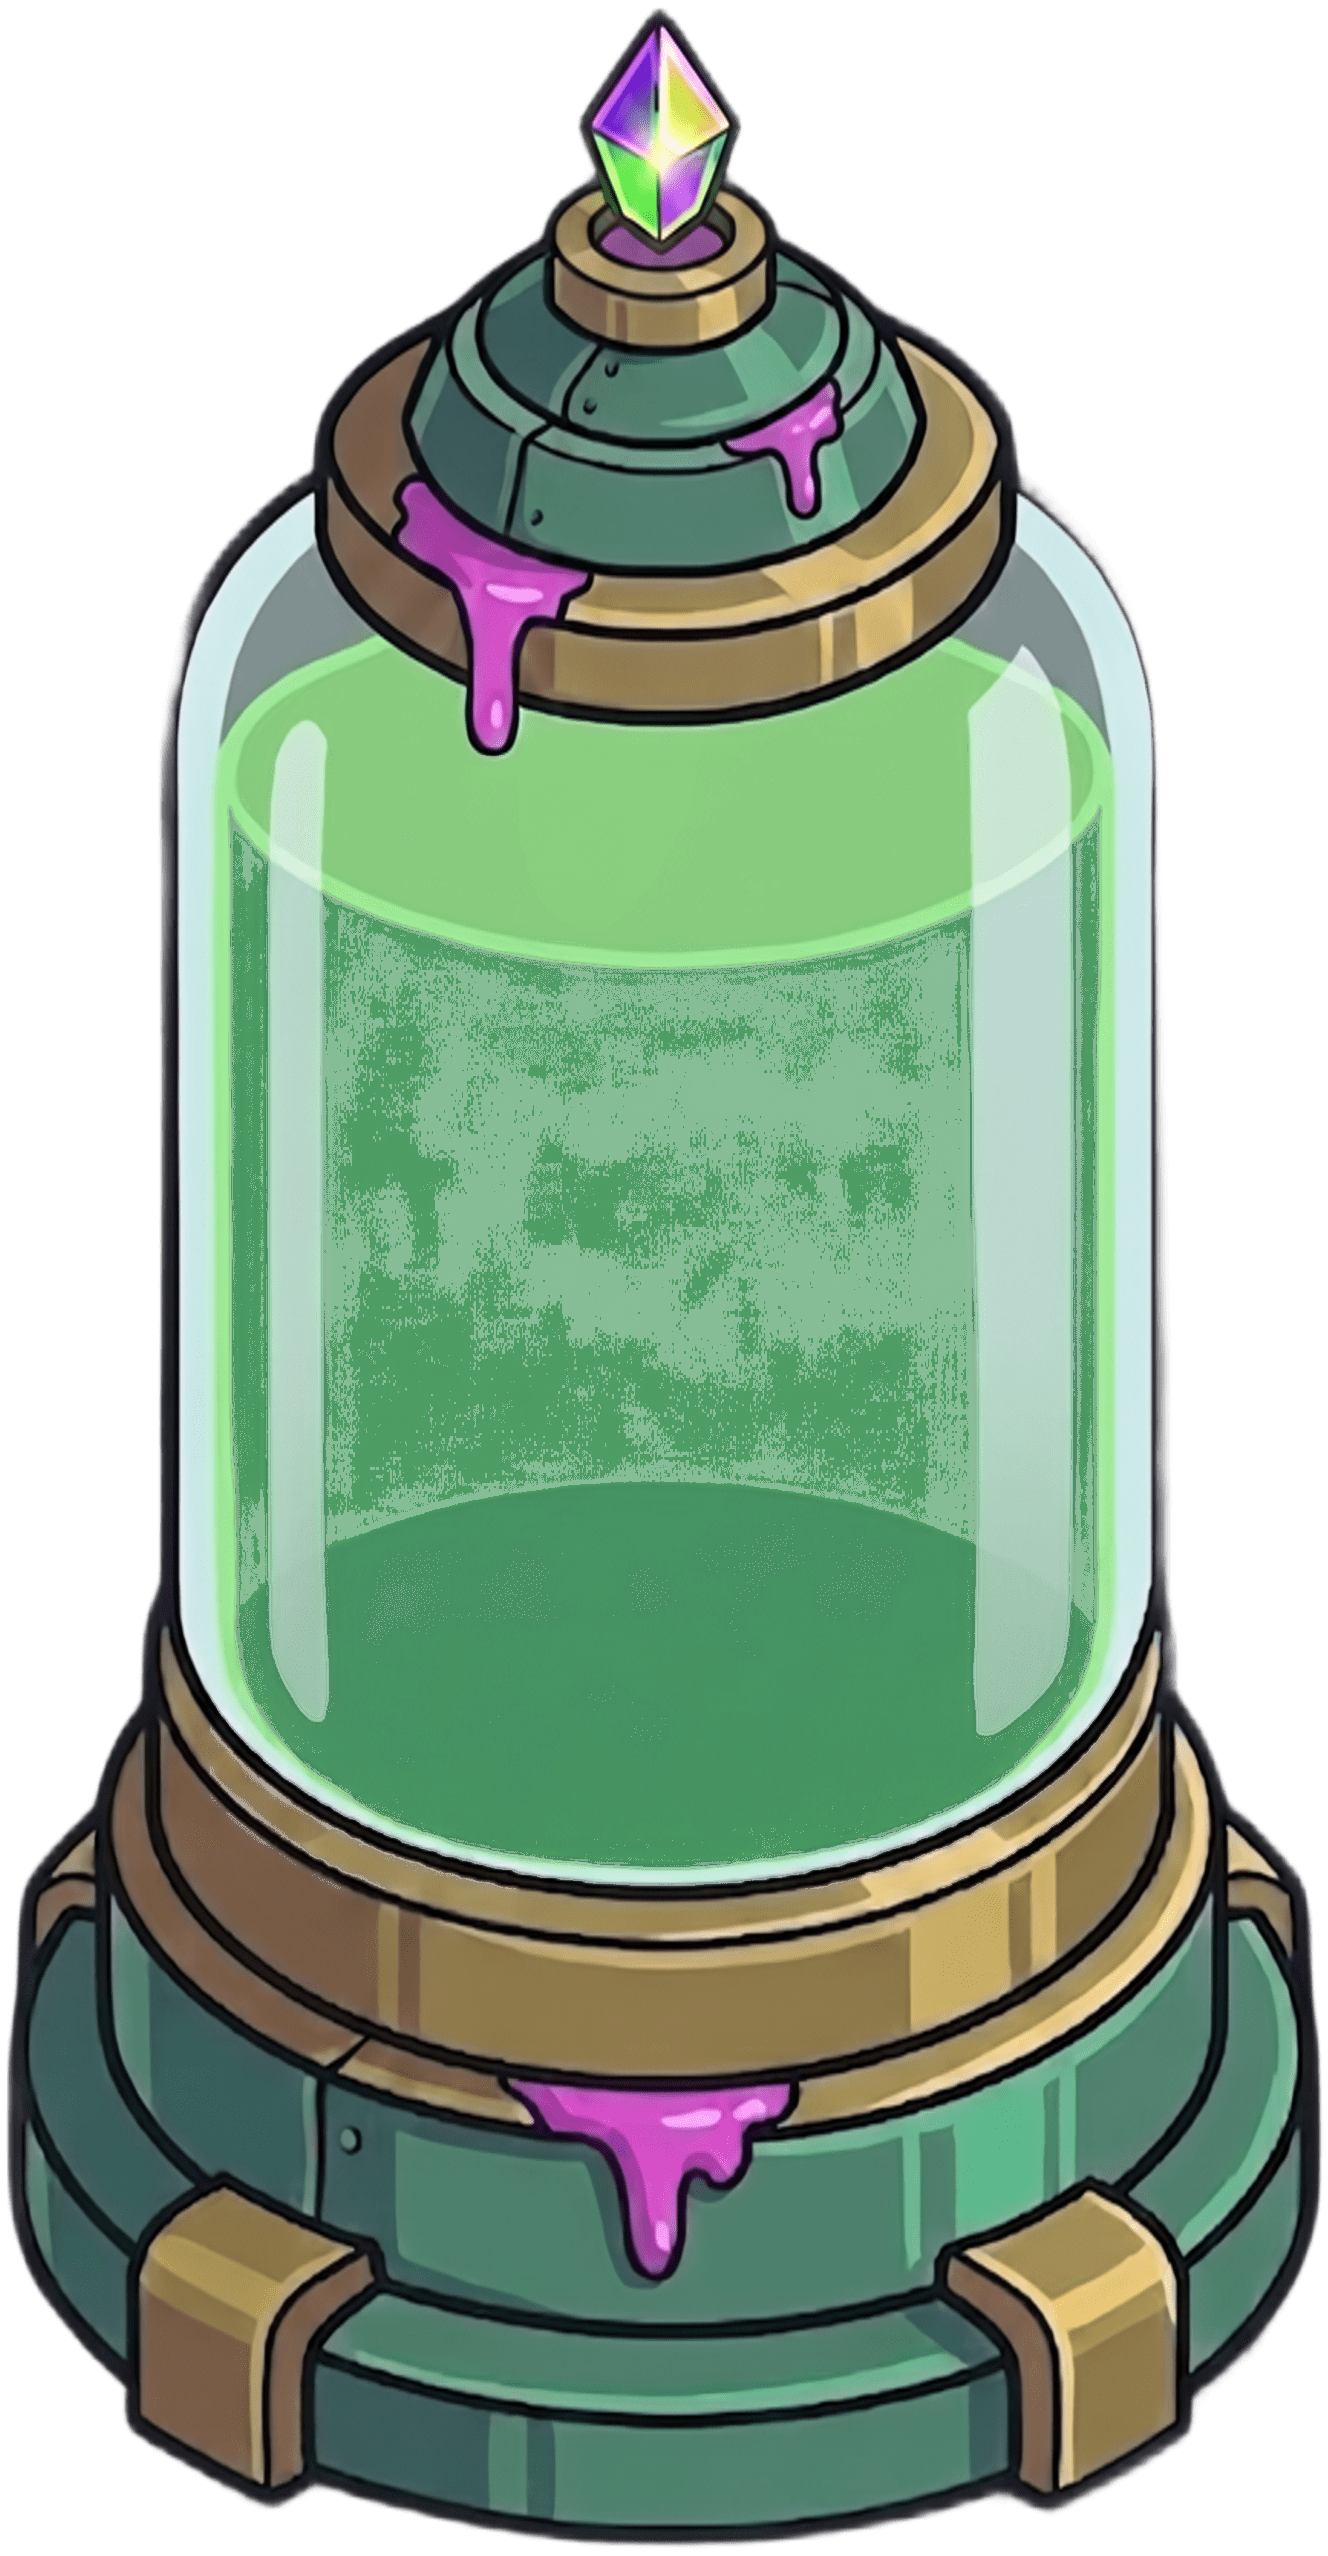
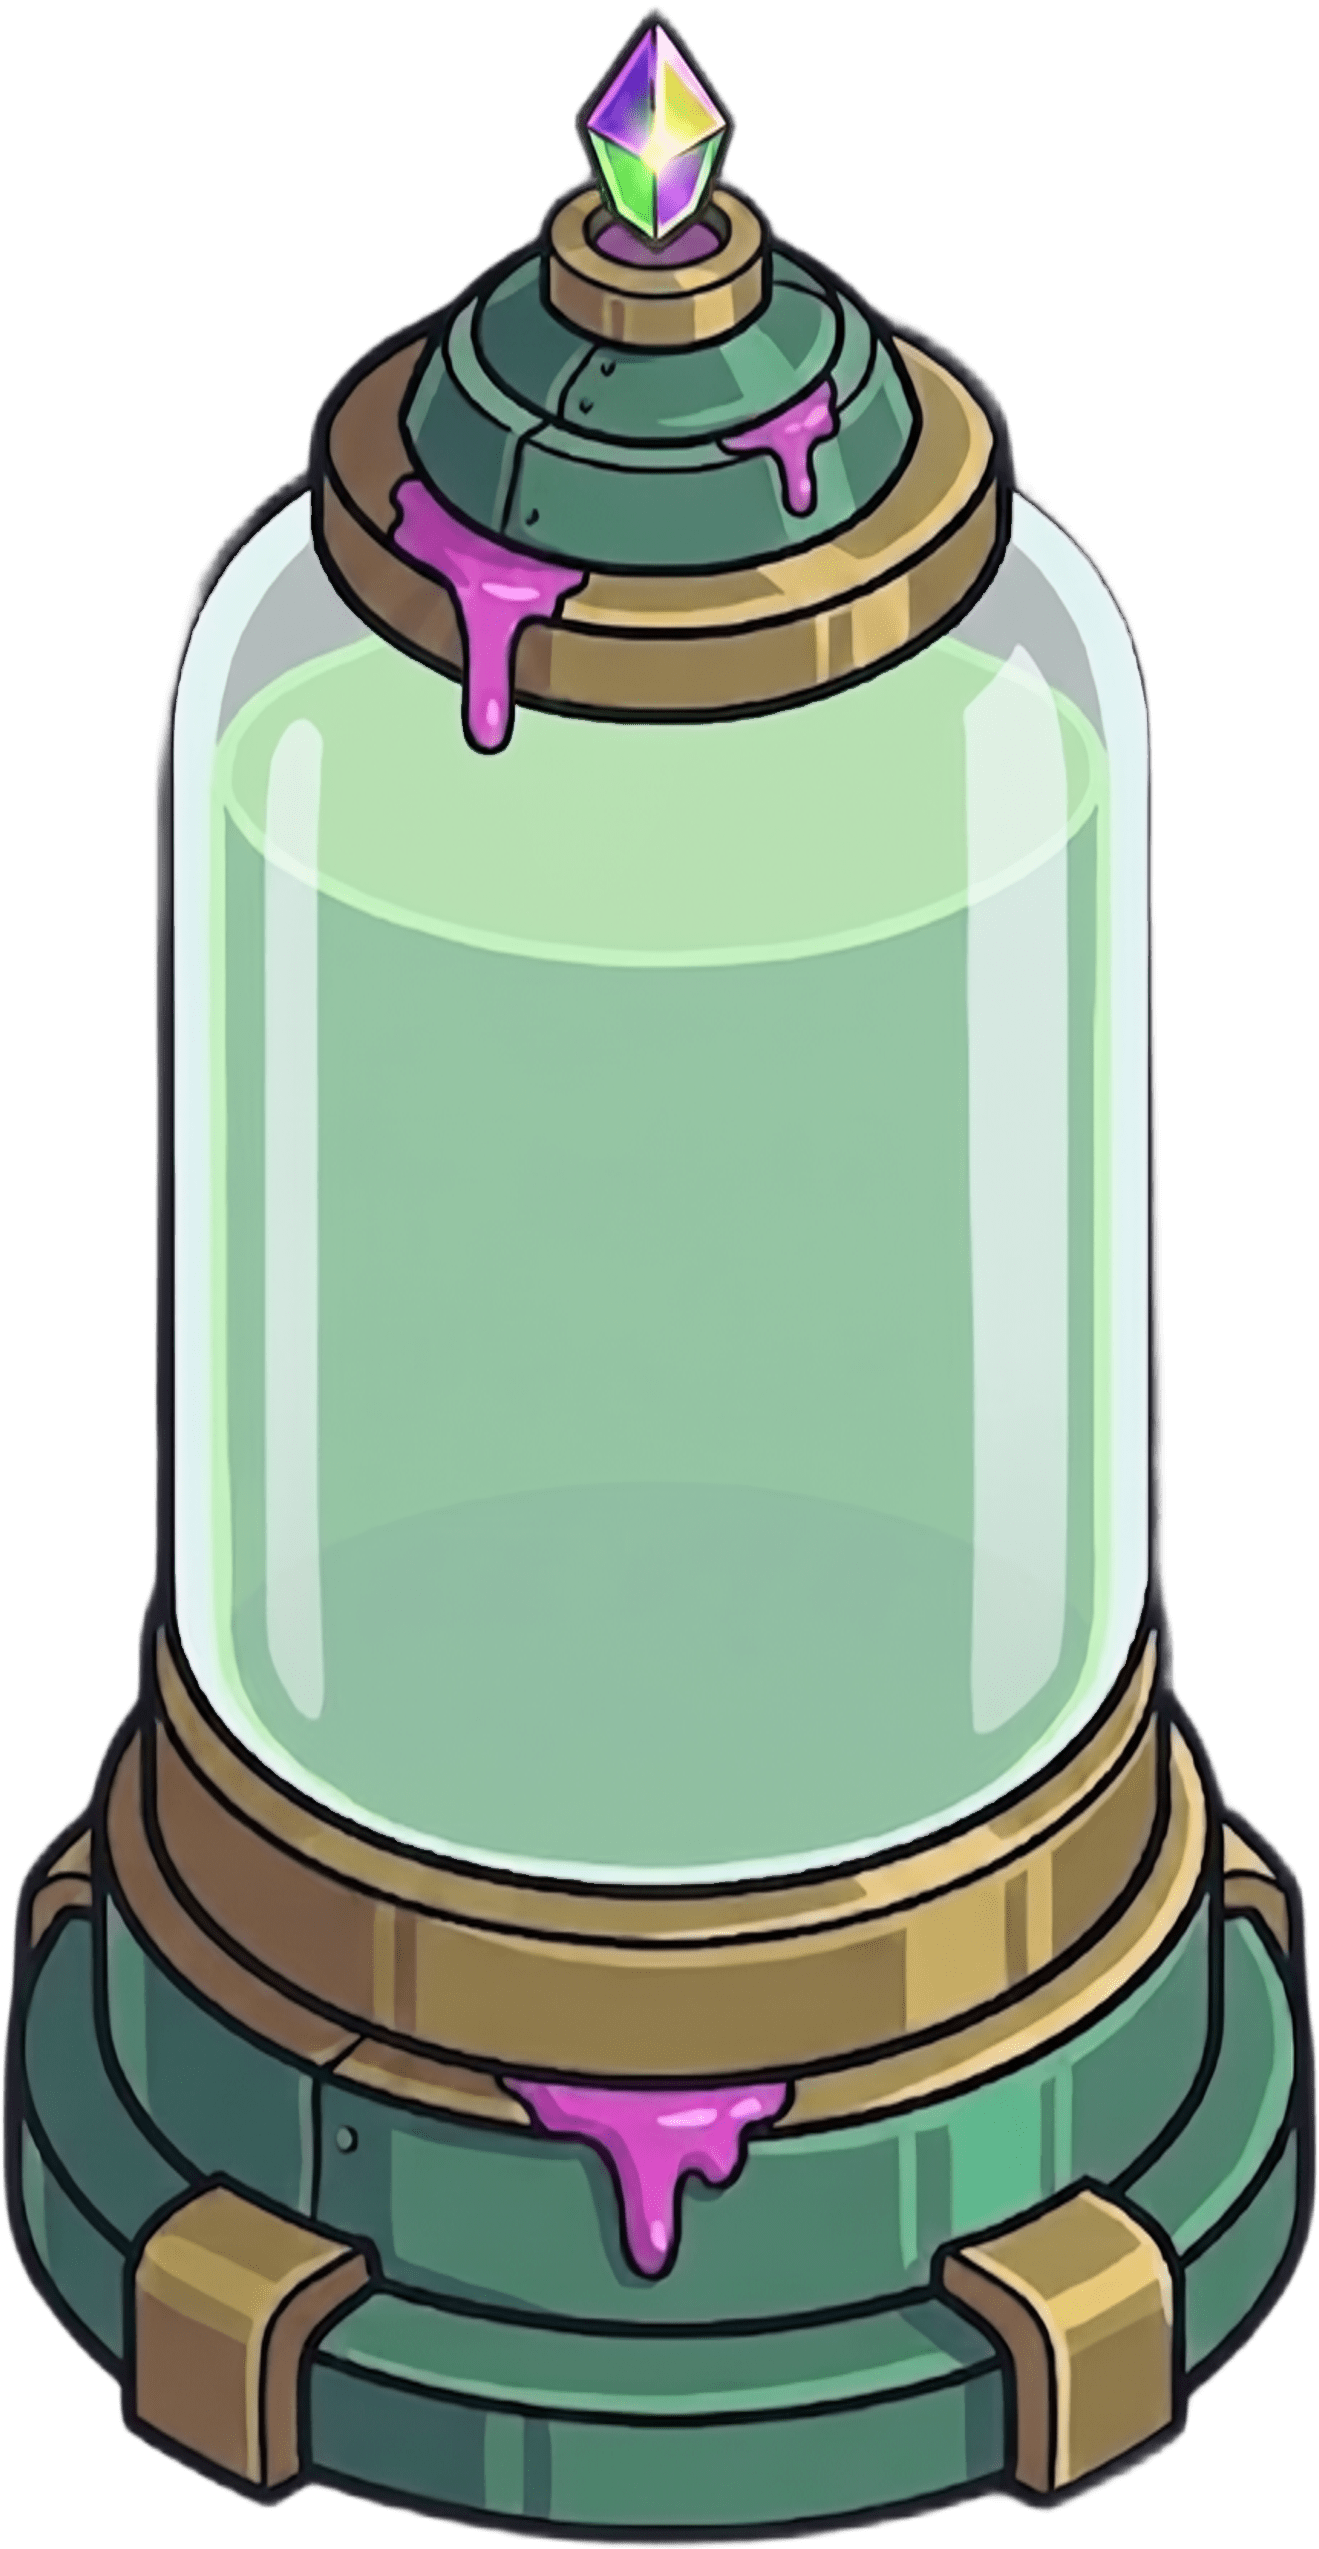
fix(loc2): all capsules equal size (0.28) — new images are same dims
Replaced capsule_semi images are both 1319x2549 now, so the per-aspect width
hack (sides 0.31) is gone — all three capsules use widthFrac 0.28.

diff --git a/client/src/game/scenes/main/BuildingsController.ts b/client/src/game/scenes/main/BuildingsController.ts
@@ -110,16 +110,14 @@ const BUILDINGS_LOC2: readonly BuildingDef[] = [
     src: '/builds_loc2/capsule1_semi.png',
     xFrac: 0.3,
     yFrac: 0.83,
-    // cyan PNG уже/выше по аспекту → widthFrac 0.31 чтобы высота совпала с
-    // центральной зелёной (одинаковый видимый размер).
-    widthFrac: 0.31,
+    widthFrac: 0.28,
   },
   {
     key: 'bld2_capsule',
     src: '/builds_loc2/capsule1_semi.png',
     xFrac: 0.74,
     yFrac: 0.83,
-    widthFrac: 0.31,
+    widthFrac: 0.28,
   },
   {
     key: 'bld2_capsule',